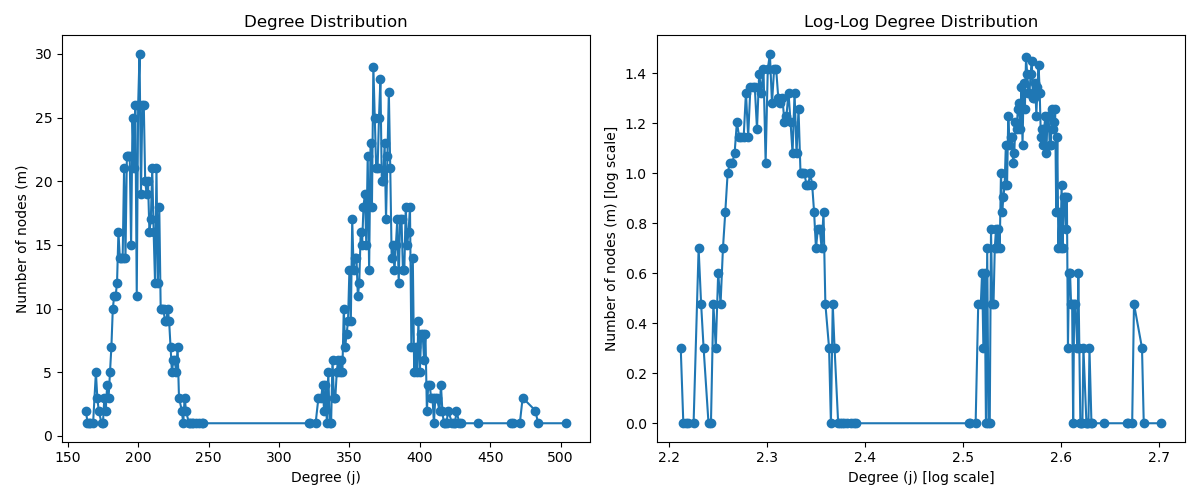
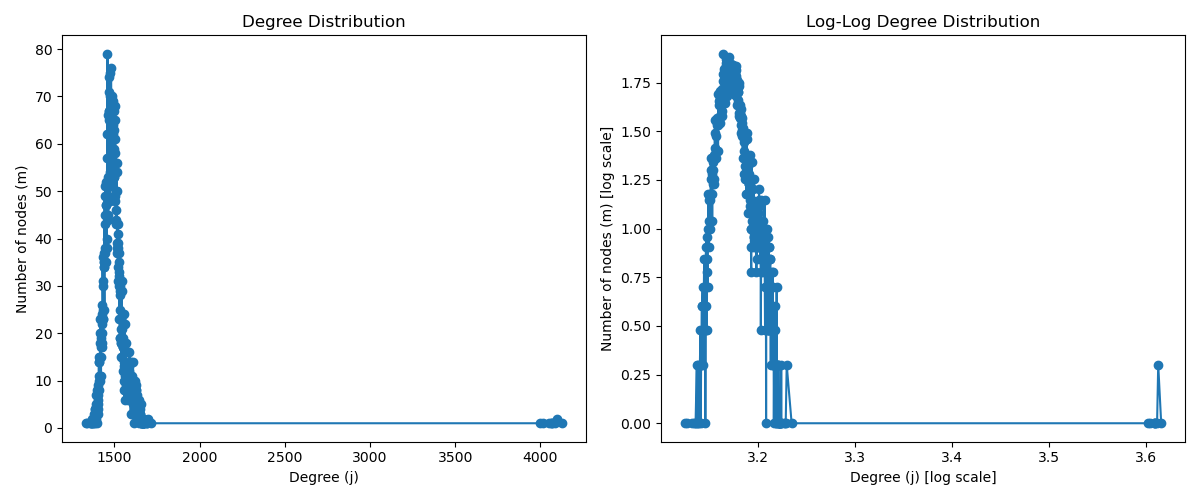
a

diff --git a/scr3/train.py b/scr3/train.py
@@ -85,7 +85,7 @@ parser.add_argument('--dataset_transform', nargs='*', default=[], help='List of 
 parser.add_argument('--numbers_list', type=valid_int_list, default=[0, 1, 3, 4, 5, 6, 7], help="A comma-separated list of integers describing which distinct classes we take during training alone")
 parser.add_argument('--N', type=valid_int_or_all, default=20, help="Number of distinct trainig images per class; greater than 0 or the string 'all' for all instances o.")
 
-parser.add_argument('--supervision_label_val', default=10, type=int, required=True, help='An integer value.')
+parser.add_argument('--supervision_label_val', default=1, type=int, required=True, help='An integer value.')
 
 
 ## -----graph-----  
@@ -685,13 +685,12 @@ run = wandb.init(
 #     break 
 
 
-
-
 class GraphFormattedMNIST(torch.utils.data.Dataset):
-    def __init__(self, dataset, input_size, hidden_size, output_size):
+    def __init__(self, dataset, input_size, hidden_size, output_size, label_value=1):
         self.input_size = input_size
         self.hidden_size = hidden_size
         self.output_size = output_size
+        self.label_value = label_value  # <---- New parameter to control the value in one-hot vector
 
         # Precompute dataset transformation (instead of transforming on-the-fly)
         self.data = []
@@ -702,7 +701,7 @@ class GraphFormattedMNIST(torch.utils.data.Dataset):
         for img, label in dataset:
             image_flat = img.view(-1).to(torch.float32)  # Flattened
             internal_nodes = torch.zeros(hidden_size, dtype=torch.float32)  # Internal nodes
-            one_hot_label = one_hot_lookup[label]
+            one_hot_label = one_hot_lookup[label] * self.label_value  # <---- Changed here
 
             # Precomputed graph data
             graph_data = torch.cat([image_flat, internal_nodes, one_hot_label])
@@ -719,6 +718,7 @@ class GraphFormattedMNIST(torch.utils.data.Dataset):
 
     def __getitem__(self, idx):
         return self.data[idx], self.labels[idx]  # No transformations here!
+
 
 
 DATASET_PATH = "../data"
@@ -750,8 +750,8 @@ base_test_dataset = torchvision.datasets.MNIST(root=DATASET_PATH, train=False, t
 
 print("hidden_size", hidden_size)
 # Wrap it in the GraphFormattedMNIST class
-train_dataset = GraphFormattedMNIST(base_train_dataset, input_size, hidden_size, output_size)
-test_dataset = GraphFormattedMNIST(base_test_dataset, input_size, hidden_size, output_size)
+train_dataset = GraphFormattedMNIST(base_train_dataset, input_size, hidden_size, output_size, label_value=args.supervision_label_val)
+test_dataset = GraphFormattedMNIST(base_test_dataset, input_size, hidden_size, output_size, label_value=args.supervision_label_val)
 
 # Split the dataset
 train_set, val_set = random_split(train_dataset, [50000, 10000])
@@ -909,8 +909,10 @@ with torch.no_grad():
         print("\n-----train_supervised-----")
         print(len(train_loader))
 
+        model.do_log_error_map = True 
         # for batch_no, batch in enumerate(tqdm(train_loader, total=min(break_num, len(train_loader)), desc=f"Epoch {epoch+1} - Training", leave=False)):
         for batch_no, (X_batch, y_batch) in enumerate(tqdm(train_loader, total=min(break_num, len(train_loader)), desc=f"Epoch {epoch+1} - Training", leave=False)):
+            
 
             X_batch, y_batch = X_batch.to(DEVICE), y_batch.to(DEVICE)  # Move to GPU
             
@@ -932,6 +934,8 @@ with torch.no_grad():
             num_of_trained_imgs += X_batch.shape[0]
             if batch_no >= break_num:
                 break
+            
+            model.do_log_error_map = False
 
         wandb.log({
             "epoch": epoch,
@@ -1109,54 +1113,58 @@ if len(accuracy_means) > 0:
     print(accuracy_means)
 
 
-if max(accuracy_means) > 0.90 or accuracy_means[-1] >= 0.85:
+    if max(accuracy_means) > 0.90 or accuracy_means[-1] >= 0.85:
 
-    # save weights; TODO
+        # save weights; TODO
 
-    # eval on test set
+        # eval on test set
 
-    
-    # for batch_no, batch in enumerate(tqdm(val_loader, total=min(len(val_loader)), desc=f"Epoch {epoch+1} - Validation", leave=False)):
-    for batch_no, (X_batch, y_batch)  in enumerate(tqdm(test_loader, total=len(test_loader), desc=f"Epoch {epoch+1} - Test Eval. | {TASK}", leave=False)):
-    
-        X_batch, y_batch = X_batch.to(DEVICE), y_batch.to(DEVICE)  # Move to GPU
         
-        # y_pred = PCG.test_iterative(batch, eval_types=TASK_copy, remove_label=True)
-
-        for task in TASK_copy:
-            y_pred = PCG.test_iterative( (X_batch, y_batch), 
-                                        eval_types=[task], remove_label=True)
-
-        # # do generation once
-        if "generation" in TASK_copy and "classification" in TASK_copy:
-            TASK_copy = ["classification"]
-
-        # print("y_pred", y_pred.shape)
-        # print("y_pred", y_batch.shape)
-        if "classification" in TASK_copy:
-            mean_correct = torch.mean((y_pred == y_batch).float()).item()
-            acc += mean_correct
-            accs.append(mean_correct)
+        # for batch_no, batch in enumerate(tqdm(val_loader, total=min(len(val_loader)), desc=f"Epoch {epoch+1} - Validation", leave=False)):
+        for batch_no, (X_batch, y_batch)  in enumerate(tqdm(test_loader, total=len(test_loader), desc=f"Epoch {epoch+1} - Test Eval. | {TASK}", leave=False)):
         
-    print("Done test eval")
+            X_batch, y_batch = X_batch.to(DEVICE), y_batch.to(DEVICE)  # Move to GPU
+            
+            # y_pred = PCG.test_iterative(batch, eval_types=TASK_copy, remove_label=True)
 
-    if "classification" in TASK:
-        accuracy_mean = (sum(accs) / len(accs)) if accs else 0
-        val_acc.append(accuracy_mean)
-        accuracy_means.append(accuracy_mean)
+            for task in TASK_copy:
+                y_pred = PCG.test_iterative( (X_batch, y_batch), 
+                                            eval_types=[task], remove_label=True)
 
-        print("epoch", epoch, "accuracy_mean", accuracy_mean, "on size test set", len(accs) * args.batch_size)
+            # # do generation once
+            if "generation" in TASK_copy and "classification" in TASK_copy:
+                TASK_copy = ["classification"]
 
-        # if epoch % 10 == 0 or accuracy_mean > 0.90:
-        #     print("delta pred ", y_pred - y_batch)
+            # print("y_pred", y_pred.shape)
+            # print("y_pred", y_batch.shape)
+            if "classification" in TASK_copy:
+                mean_correct = torch.mean((y_pred == y_batch).float()).item()
+                acc += mean_correct
+                accs.append(mean_correct)
+            
+        print("Done test eval")
 
-        wandb.log({
-            "epoch": epoch,
-            "classification_test/accuracy_mean": accuracy_mean,
-            "classification_test/size":  len(accs) * args.batch_size,
-        })
+        if "classification" in TASK:
+            accuracy_mean = (sum(accs) / len(accs)) if accs else 0
+            val_acc.append(accuracy_mean)
+            accuracy_means.append(accuracy_mean)
+
+            print("epoch", epoch, "accuracy_mean", accuracy_mean, "on size test set", len(accs) * args.batch_size)
+
+            # if epoch % 10 == 0 or accuracy_mean > 0.90:
+            #     print("delta pred ", y_pred - y_batch)
+
+            wandb.log({
+                "epoch": epoch,
+                "classification_test/accuracy_mean": accuracy_mean,
+                "classification_test/size":  len(accs) * args.batch_size,
+            })
 
 
 
 if args.use_wandb in ['online', 'run']:
         plot_model_weights(model, args.graph_type, model_dir=None, save_wandb=str(int(args.epochs)))
+
+
+
+wandb.finish()

diff --git a/scr3/model_latest2.py b/scr3/model_latest2.py
@@ -552,6 +552,10 @@ class PCgraph(torch.nn.Module):
         self.use_input_error = use_input_error
         self.trace = False 
 
+        self.init_hidden_values = 0.001 # either "zeros" or "small value"
+        # log to wandb
+        wandb.log({"init_hidden_values": self.init_hidden_values})
+    
         # self.w = nn.Parameter(torch.empty(num_vertices, num_vertices, device=self.device))
         # self.b = nn.Parameter(torch.empty(num_vertices, device=self.device))
         self.device = device 
@@ -570,7 +574,7 @@ class PCgraph(torch.nn.Module):
         self.wandb_logging = wandb_logging
         
 
-        self.do_log_error_map = False
+        self.do_log_error_map = True
         print("---do_log_error_map------", self.do_log_error_map)
 
         # self.use_attention = True
@@ -1461,6 +1465,15 @@ class PCgraph(torch.nn.Module):
         # if self.early_stop:
         #     early_stopper = EarlyStopper(patience=0, min_delta=self.min_delta)
 
+
+
+        if self.init_hidden_values:
+            if self.reshape:
+                self.values[:, 784:-10] = torch.randn_like(self.values[:, 784:-10]) * self.init_hidden_values
+            else:
+                self.values[:, 784:-10] = torch.randn_like(self.values) * self.init_hidden_values                
+
+
         T = self.T_train if train else self.T_test
 
         update_mask = self.internal_mask_train if train else self.update_mask_test
@@ -1763,6 +1776,9 @@ class PCgraph(torch.nn.Module):
             self.values = data.view(self.batch_size * self.num_vertices, 1)
 
         # self.values, _ , _ = self.unpack_features(data.x, reshape=False)
+
+        # init hidden values at start of training with small noise instead of zeros from 
+
         
         self.update_xs(train=True)
         self.get_dw()

diff --git a/scr3/graphbuilder.py b/scr3/graphbuilder.py
@@ -53,12 +53,12 @@ graph_type_options = {
         
         "stochastic_block": {
             "params": {
-                "num_communities": 20,      # Number of communities (50)
-                "community_size": 50,       # Size of each community (40)
+                "num_communities": 15,      # Number of communities (50)
+                "community_size": 400,       # Size of each community (40)
                 "p_intra": 0.25,             # Probability of edges within the same community
                 "p_inter": 0.1,             # Probability of edges between different communities
                 "full_con_last_cluster_w_sup": True,
-                "min_full_con_last_cluster_w_sup": 2,
+                "min_full_con_last_cluster_w_sup": 6,
                 # "remove_sens_2_sens": False, 
                 # "remove_sens_2_sup": False, 
                 }
